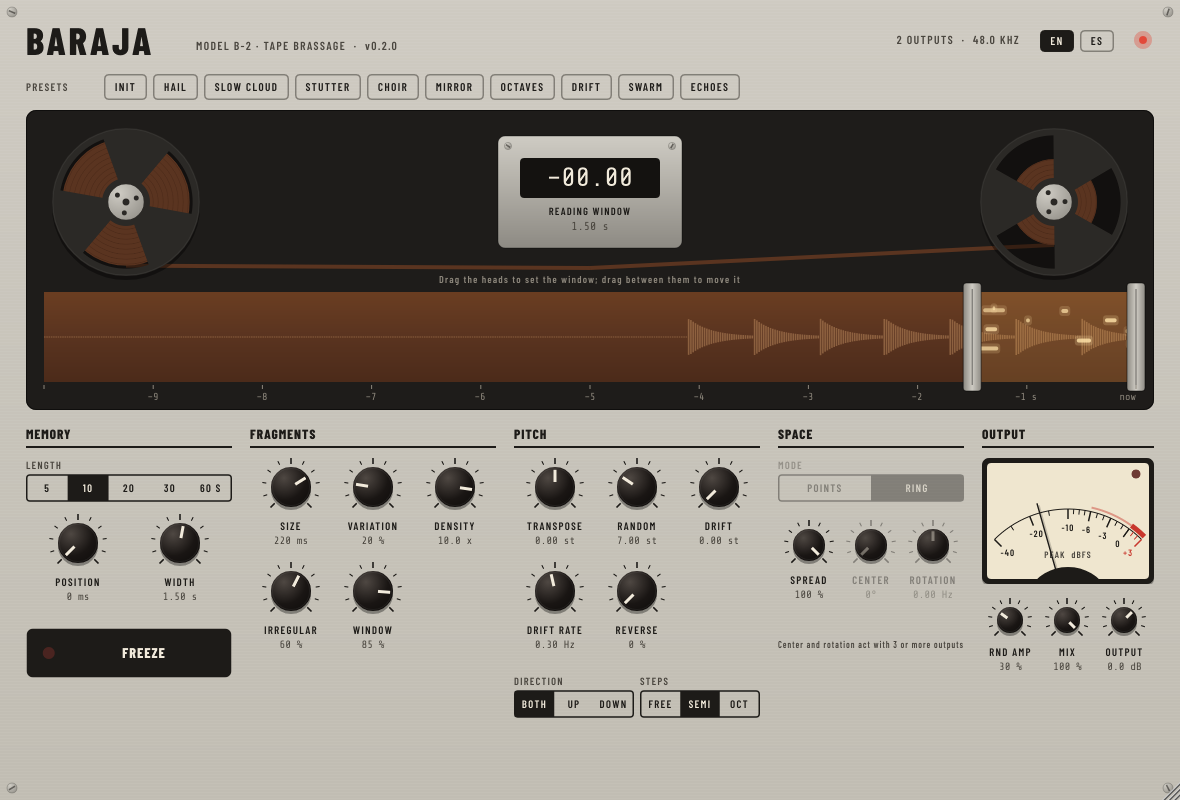
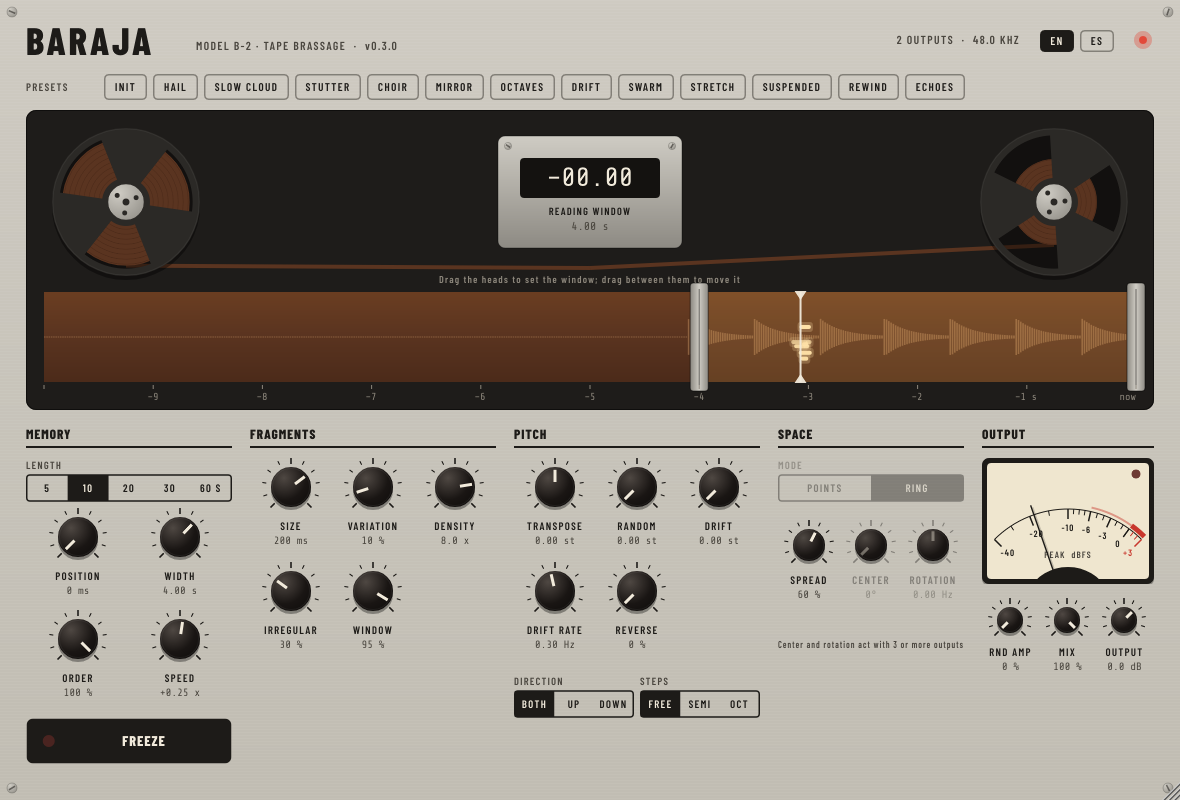
Baraja 0.3.0: híbrido entre Shuffling y Freeze
- Order: de fragmentos al azar (shuffling) a fragmentos que siguen un
  cabezal de lectura (freeze), con todos los valores intermedios.
- Speed: velocidad y sentido del cabezal, independientes de la altura
  (estiramiento temporal, cabezal detenido, lectura hacia atrás).
- El cabezal se dibuja sobre la cinta.
- Ajustes nuevos: Stretch, Suspended, Rewind.
- Pruebas del motor para los modos nuevos.

Claude-Session: https://claude.ai/code/session_01Kuo6ybMgYaCG6zDbMWAD8p

diff --git a/Source/Parameters.h b/Source/Parameters.h
@@ -50,6 +50,8 @@ inline const std::vector<FloatSpec>& floatSpecs()
         { "shape",     "Window",        "Ventana",        0.0f,   100.0f,   60.0f,   "%",     0, S::linear,      false, "Fragment envelope: 0 = hard edges, 100 = bell", "Envolvente: 0 = bordes abruptos, 100 = campana" },
         { "position",  "Position",      "Posición",       0.0f,   60000.0f, 0.0f,    "ms",    0, S::skewed,      false, "How far back the reading window starts", "Desde qué punto del pasado se lee" },
         { "width",     "Width",         "Ancho",          20.0f,  60000.0f, 1500.0f, "ms",    0, S::logarithmic, false, "Length of the reading window", "Cuánto abarca la zona de lectura" },
+        { "order",     "Order",         "Orden",          0.0f,   100.0f,   0.0f,    "%",     0, S::linear,      false, "0 = fragments taken at random (shuffling), 100 = they follow the read head (freeze)", "0 = fragmentos al azar (shuffling), 100 = siguen al cabezal de lectura (freeze)" },
+        { "speed",     "Speed",         "Velocidad",      -4.0f,  4.0f,     1.0f,    "x",     2, S::linear,      true,  "Read head speed and direction, independent of pitch. 0 = stopped", "Velocidad y sentido del cabezal, independiente de la altura. 0 = detenido" },
         { "pitch",     "Transpose",     "Transposición",  -24.0f, 24.0f,    0.0f,    "st",    2, S::linear,      true,  "Every fragment is transposed by the same amount", "Todos los fragmentos se transponen igual" },
         { "pitchVar",  "Random",        "Aleatoria",      0.0f,   24.0f,    0.0f,    "st",    2, S::linear,      false, "Each fragment also gets a random pitch in this range", "Cada fragmento recibe además una altura al azar" },
         { "drift",     "Drift",         "Deriva",         0.0f,   24.0f,    0.0f,    "st",    2, S::linear,      false, "The transposition wanders on its own", "La transposición vaga sola en el tiempo" },
@@ -115,15 +117,16 @@ inline juce::NormalisableRange<float> rangeFor (const FloatSpec& s)
 inline juce::AudioProcessorValueTreeState::ParameterLayout createLayout()
 {
     juce::AudioProcessorValueTreeState::ParameterLayout layout;
-    const int v1 = 1, v2 = 2;   // parameter versions: 2 = added in Baraja 0.2
+    const int v1 = 1, v2 = 2, v3 = 3;   // parameter versions: 2 = added in Baraja 0.2, 3 = added in 0.3
 
     for (const auto& s : floatSpecs())
     {
         const juce::String id (s.id);
         const bool isNew = id == "position" || id == "width" || id == "center" || id == "rotation";
+        const bool isNewer = id == "order" || id == "speed";
         const auto sp = s;
         layout.add (std::make_unique<juce::AudioParameterFloat> (
-            juce::ParameterID { s.id, isNew ? v2 : v1 }, u8 (s.en), rangeFor (s), s.def,
+            juce::ParameterID { s.id, isNewer ? v3 : (isNew ? v2 : v1) }, u8 (s.en), rangeFor (s), s.def,
             juce::AudioParameterFloatAttributes()
                 .withLabel (s.unit)
                 .withStringFromValueFunction ([sp] (float v, int) { return formatValue (sp, v); })
@@ -163,6 +166,9 @@ inline const std::vector<Preset>& presets()
         { "Octaves",    "Octavas",    { {"size",300}, {"sizeVar",40}, {"density",5}, {"jitter",65}, {"shape",90}, {"width",2500}, {"pitchVar",13}, {"quant",2}, {"reverse",15}, {"spread",100}, {"ampVar",25} } },
         { "Drift",      "Deriva",     { {"size",260}, {"sizeVar",35}, {"density",6}, {"jitter",55}, {"shape",90}, {"width",2200}, {"pitchVar",0.4f}, {"drift",7}, {"driftRate",0.15f}, {"reverse",20}, {"spread",90}, {"ampVar",20} } },
         { "Swarm",      "Enjambre",   { {"size",60}, {"sizeVar",60}, {"density",12}, {"jitter",95}, {"shape",50}, {"width",1000}, {"pitch",5}, {"pitchVar",12}, {"vdir",1}, {"drift",3}, {"driftRate",2.5f}, {"reverse",10}, {"spread",100}, {"ampVar",50} } },
+        { "Stretch",    "Estirado",   { {"order",100}, {"speed",0.25f}, {"size",200}, {"sizeVar",10}, {"density",8}, {"jitter",30}, {"shape",95}, {"width",4000}, {"spread",60} } },
+        { "Suspended",  "Suspendido", { {"order",95}, {"speed",0}, {"size",300}, {"sizeVar",20}, {"density",10}, {"jitter",50}, {"shape",100}, {"position",200}, {"width",600}, {"spread",80}, {"ampVar",10} } },
+        { "Rewind",     "Retroceso",  { {"order",80}, {"speed",-1}, {"size",150}, {"density",5}, {"jitter",40}, {"shape",80}, {"width",6000}, {"spread",70} } },
         { "Echoes",     "Ecos",       { {"size",350}, {"sizeVar",20}, {"density",2.5f}, {"jitter",40}, {"shape",80}, {"position",4000}, {"width",1500}, {"spread",100}, {"rotation",0.05f} } },
     };
     return list;

diff --git a/Source/BarajaEngine.h b/Source/BarajaEngine.h
@@ -26,6 +26,8 @@ struct Params
     float shape     = 60.0f;    // % window smoothness
     float position  = 0.0f;     // ms: how far back the newest edge of the reading window is
     float width     = 1500.0f;  // ms: length of the reading window
+    float order     = 0.0f;     // %: 0 = fragments taken at random (shuffling), 100 = they follow the read head (freeze)
+    float speed     = 1.0f;     // read head speed and direction (x), independent of pitch; 0 = stopped
     float pitch     = 0.0f;     // semitones, fixed transposition
     float pitchVar  = 0.0f;     // semitones, random variation
     int   vdir      = 0;        // 0 both ways, 1 up, 2 down
@@ -59,6 +61,7 @@ struct Telemetry
     float memoryMs = 10000.0f;
     float drift = 0.0f;
     float outPeak = 0.0f;
+    float headMs = 0.0f;
     float ringPhase = 0.0f;
     int numOutputs = 2;
 };
@@ -90,6 +93,7 @@ public:
         for (auto& g : grains) g.active = false;
         driftPhase = driftFrom = driftTo = driftNow = 0.0;
         ringPhase = 0.0;
+        headDelay = 0.0;
         teleCount = 0;
         outPeakAcc = 0.0f;
     }
@@ -127,6 +131,10 @@ public:
         float* buf = buffer.data();
         double wet[maxOutputs];
 
+        // reading window in samples, and how the head moves relative to "now" each sample
+        windowSamples (p, winNew, winWide);
+        const double headStep = p.freeze ? -(double) p.speed : 1.0 - (double) p.speed;
+
         for (int i = 0; i < n; ++i)
         {
             const float dl = inL ? inL[i] : 0.0f;
@@ -137,6 +145,11 @@ public:
                 buf[writePos] = 0.5f * (dl + dr);
                 writePos = (writePos + 1) & mask;
             }
+
+            // the read head travels through the window and wraps at its edges
+            headDelay += headStep;
+            if (headDelay > winNew + winWide || headDelay < winNew)
+                headDelay = winNew + std::fmod (std::fmod (headDelay - winNew, winWide) + winWide, winWide);
 
             nextGrain -= 1.0;
             if (nextGrain <= 0.0)
@@ -216,6 +229,7 @@ public:
         t.drift = (float) driftNow;
         t.outPeak = std::max (t.outPeak, outPeakAcc);
         t.ringPhase = (float) ringPhase;
+        t.headMs = (float) (headDelay * 1000.0 / sr);
         t.numOutputs = currentOutputs;
         outPeakAcc = 0.0f;
 
@@ -326,10 +340,11 @@ private:
         const double minD = rev ? 64.0
                           : (p.freeze ? span + 64.0 : std::max (0.0, length * (rate - 1.0)) + 64.0);
 
-        const double memMs = getMemoryMs();
-        const double posMs = std::clamp ((double) p.position, 0.0, memMs - 20.0);
-        const double widMs = std::clamp ((double) p.width, 1.0, memMs - posMs);
-        double d = minD + (posMs + rnd() * widMs) * sr / 1000.0;
+        // shuffling: anywhere in the window; freeze: centred on the read head, with a little scatter
+        const double o = std::clamp (p.order / 100.0, 0.0, 1.0);
+        const double dRandom = winNew + rnd() * winWide;
+        const double dHead = headDelay + (rev ? -0.5 : 0.5) * span + (rnd() * 2.0 - 1.0) * 0.15 * span;
+        double d = (minD + dRandom) * (1.0 - o) + dHead * o;
         const double oldest = rev ? d + span : d;
         if (oldest > maxOld) d -= oldest - maxOld;
         if (d < minD) d = minD;
@@ -347,7 +362,17 @@ private:
         place (*g, p, numOuts);
     }
 
+    void windowSamples (const Params& p, double& newest, double& wide) const noexcept
+    {
+        const double memMs = getMemoryMs();
+        const double posMs = std::clamp ((double) p.position, 0.0, memMs - 20.0);
+        const double widMs = std::clamp ((double) p.width, 1.0, memMs - posMs);
+        newest = posMs * sr / 1000.0;
+        wide = std::max (16.0, widMs * sr / 1000.0);
+    }
+
     double sr = 48000.0, memorySamples = 480000.0;
+    double headDelay = 0.0, winNew = 0.0, winWide = 48000.0;
     std::vector<float> buffer;
     int mask = 0, writePos = 0, currentOutputs = 2;
     Grain grains[maxGrains];

diff --git a/Source/PluginEditor.cpp b/Source/PluginEditor.cpp
@@ -340,6 +340,7 @@ void Transport::update (const Telemetry& t, bool peaksFresh, bool running)
     std::copy (t.grains, t.grains + t.numGrains, tele.grains);
     tele.drift = t.drift;
     tele.numOutputs = t.numOutputs;
+    tele.headMs = t.headMs;
     if (peaksFresh)
     {
         std::copy (t.peaks, t.peaks + Telemetry::numPeaks, tele.peaks);
@@ -485,6 +486,19 @@ void Transport::paint (juce::Graphics& g)
         g.fillRoundedRectangle (rect.expanded (2.0f, 3.0f), 3.0f);
         g.setColour (c.withAlpha (alpha));
         g.fillRoundedRectangle (rect, 2.0f);
+    }
+
+    // the read head: fragments gather around it as Order rises
+    const float order = processor.apvts.getRawParameterValue ("order")->load() / 100.0f;
+    if (order > 0.005f)
+    {
+        const float hx = xForMs (tele.headMs);
+        g.setColour (colours::cream.withAlpha (0.25f + 0.7f * order));
+        g.fillRect (hx - 1.0f, s.getY(), 2.0f, s.getHeight());
+        juce::Path tri;
+        tri.addTriangle (hx - 6.0f, s.getY() - 1.0f, hx + 6.0f, s.getY() - 1.0f, hx, s.getY() + 8.0f);
+        tri.addTriangle (hx - 6.0f, s.getBottom() + 1.0f, hx + 6.0f, s.getBottom() + 1.0f, hx, s.getBottom() - 8.0f);
+        g.fillPath (tri);
     }
 
     // the two heads that hold the window: drag them
@@ -666,7 +680,7 @@ Content::Content (BarajaProcessor& p)
 
     auto onUser = [this] { shownProgram = -1; highlightPreset(); };
     const std::vector<std::pair<const char*, float>> knobIds {
-        { "position", 58 }, { "width", 58 },
+        { "position", 58 }, { "width", 58 }, { "order", 58 }, { "speed", 58 },
         { "size", 58 }, { "sizeVar", 58 }, { "density", 58 }, { "jitter", 58 }, { "shape", 58 },
         { "pitch", 58 }, { "pitchVar", 58 }, { "drift", 58 }, { "driftRate", 58 }, { "reverse", 58 },
         { "spread", 50 }, { "center", 50 }, { "rotation", 50 },
@@ -712,7 +726,7 @@ Content::~Content()
 
 Knob* Content::knob (const juce::String& id) const
 {
-    const auto& ids = std::vector<const char*> { "position", "width", "size", "sizeVar", "density", "jitter", "shape",
+    const auto& ids = std::vector<const char*> { "position", "width", "order", "speed", "size", "sizeVar", "density", "jitter", "shape",
                                                  "pitch", "pitchVar", "drift", "driftRate", "reverse",
                                                  "spread", "center", "rotation", "ampVar", "mix", "gain" };
     for (size_t i = 0; i < ids.size(); ++i) if (id == ids[i]) return knobs[(int) i];
@@ -851,9 +865,11 @@ void Content::resized()
     {
         const auto a = sectionArea (0);
         memorySwitch->setBounds (a.getX(), a.getY() + 34, a.getWidth(), 44);
-        place ("position", a.getX() + 52, a.getY() + 90);
-        place ("width", a.getX() + 154, a.getY() + 90);
-        freezeButton.setBounds (a.getX(), a.getY() + 204, a.getWidth(), 50);
+        place ("position", a.getX() + 52, a.getY() + 84);
+        place ("width", a.getX() + 154, a.getY() + 84);
+        place ("order", a.getX() + 52, a.getY() + 186);
+        place ("speed", a.getX() + 154, a.getY() + 186);
+        freezeButton.setBounds (a.getX(), a.getY() + 294, a.getWidth(), 46);
     }
     // fragments and pitch: 3 × 2 grids
     for (int col : { 1, 2 })

diff --git a/Source/PluginProcessor.cpp b/Source/PluginProcessor.cpp
@@ -22,7 +22,7 @@ BarajaProcessor::BarajaProcessor()
       apvts (*this, nullptr, "BARAJA", baraja::createLayout())
 {
     auto r = [this] (const char* id) { return apvts.getRawParameterValue (id); };
-    refs = { r ("size"), r ("sizeVar"), r ("density"), r ("jitter"), r ("shape"), r ("position"), r ("width"), r ("pitch"),
+    refs = { r ("size"), r ("sizeVar"), r ("density"), r ("jitter"), r ("shape"), r ("position"), r ("width"), r ("order"), r ("speed"), r ("pitch"),
              r ("pitchVar"), r ("drift"), r ("driftRate"), r ("reverse"), r ("spread"), r ("center"), r ("rotation"),
              r ("ampVar"), r ("mix"), r ("gain"), r ("vdir"), r ("quant"), r ("spaceMode"), r ("freeze"), r ("memory") };
 
@@ -88,7 +88,8 @@ baraja::Params BarajaProcessor::readParams() const noexcept
     baraja::Params p;
     p.size = refs.size->load();           p.sizeVar = refs.sizeVar->load();     p.density = refs.density->load();
     p.jitter = refs.jitter->load();       p.shape = refs.shape->load();         p.position = refs.position->load();
-    p.width = refs.width->load();         p.pitch = refs.pitch->load();         p.pitchVar = refs.pitchVar->load();
+    p.width = refs.width->load();         p.order = refs.order->load();         p.speed = refs.speed->load();
+            p.pitch = refs.pitch->load();         p.pitchVar = refs.pitchVar->load();
     p.drift = refs.drift->load();         p.driftRate = refs.driftRate->load(); p.reverse = refs.reverse->load();
     p.spread = refs.spread->load();       p.center = refs.center->load();       p.rotation = refs.rotation->load();
     p.ampVar = refs.ampVar->load();       p.mix = refs.mix->load();             p.gain = refs.gain->load();
@@ -143,6 +144,7 @@ bool BarajaProcessor::readTelemetry (baraja::Telemetry& dest)
     dest.drift = telemetry.drift;
     dest.outPeak = telemetry.outPeak;
     dest.ringPhase = telemetry.ringPhase;
+    dest.headMs = telemetry.headMs;
     dest.numOutputs = telemetry.numOutputs;
     telemetry.outPeak = 0.0f;
     if (fresh)

diff --git a/tests/EngineTest.cpp b/tests/EngineTest.cpp
@@ -17,6 +17,10 @@ int main()
     { baraja::Params p; p.size = 5; p.density = 16; p.jitter = 100; p.shape = 0; cases.push_back ({ "tiny fragments", p }); }
     { baraja::Params p; p.position = 3000; p.width = 500; p.spaceMode = 0; p.spread = 100; p.density = 12; cases.push_back ({ "window in the past, points", p }); }
     { baraja::Params p; p.position = 1000; p.width = 2000; p.spaceMode = 1; p.spread = 40; p.rotation = 0.5f; p.center = 90; cases.push_back ({ "ring, rotating", p }); }
+    { baraja::Params p; p.order = 100; p.speed = 0.25f; p.size = 200; p.density = 8; p.shape = 95; p.width = 4000; cases.push_back ({ "freeze: slow head", p }); }
+    { baraja::Params p; p.order = 95; p.speed = 0; p.width = 600; p.position = 200; cases.push_back ({ "freeze: head stopped", p }); }
+    { baraja::Params p; p.order = 100; p.speed = -4; p.pitch = 12; p.width = 3000; cases.push_back ({ "freeze: fast backwards", p }); }
+    { baraja::Params p; p.order = 50; p.speed = 4; p.pitch = -12; p.reverse = 50; p.width = 3000; cases.push_back ({ "half order, fast forward", p }); }
 
     int failures = 0;
     for (double memory : { 5.0, 60.0 })

diff --git a/Source/PluginProcessor.h b/Source/PluginProcessor.h
@@ -70,7 +70,7 @@ private:
 
     struct Refs
     {
-        std::atomic<float> *size, *sizeVar, *density, *jitter, *shape, *position, *width, *pitch, *pitchVar,
+        std::atomic<float> *size, *sizeVar, *density, *jitter, *shape, *position, *width, *order, *speed, *pitch, *pitchVar,
                            *drift, *driftRate, *reverse, *spread, *center, *rotation, *ampVar, *mix, *gain,
                            *vdir, *quant, *spaceMode, *freeze, *memory;
     } refs {};

diff --git a/README.md b/README.md
@@ -13,6 +13,16 @@ Baraja guarda los últimos segundos (de 5 a 60) de lo que entra en una memoria y
 
 Las versiones de prueba, que todavía no se publicaron como Release, están en la pestaña **[Actions](../../actions)**: abrí la última compilación exitosa y bajá el paquete desde *Artifacts* (hace falta una cuenta de GitHub).
 
+## Novedades de la 0.3: entre Shuffling y Freeze
+
+- **Order**: en 0, los fragmentos se toman al azar dentro de la ventana, como un *shuffling*. En 100, siguen a un **cabezal de lectura** que recorre la ventana, como un *freeze*. Los valores intermedios mezclan ambos comportamientos.
+- **Speed**: velocidad y sentido del cabezal, independientes de la altura. 1 = velocidad original; 0,5 = la mitad (estira el material sin transponerlo); 0 = detenido; valores negativos = hacia atrás.
+- El cabezal se ve sobre la cinta y da la vuelta al llegar a los bordes de la ventana.
+- Ajustes nuevos: *Stretch* (Estirado), *Suspended* (Suspendido) y *Rewind* (Retroceso).
+- Las sesiones de la 0.2 suenan igual que antes, porque Order arranca en 0.
+
+Con la memoria sin congelar, Order 100 y Speed 1 el cabezal acompaña al sonido con un retardo fijo; si además se cambia la transposición, Baraja funciona como un transpositor granular.
+
 ## Novedades de la 0.2
 
 - **Skin Tape**: carretes que giran mientras se graba y se detienen al congelar, la memoria como una cinta con su forma de onda, y un medidor de picos con escala en dBFS.
@@ -29,6 +39,8 @@ Las versiones de prueba, que todavía no se publicaron como Release, están en l
 | Memory | Length | Duración de la memoria: 5 a 60 s. Cambiarla vacía la memoria. |
 | | Position | Desde qué punto del pasado empieza la ventana de lectura (0 = ahora). |
 | | Width | Cuánto abarca la ventana de lectura. |
+| | Order | 0 = fragmentos al azar en la ventana (shuffling); 100 = siguen al cabezal de lectura (freeze). |
+| | Speed | Velocidad y sentido del cabezal (−4 a +4), independientes de la altura. 0 = detenido. |
 | | Freeze | Deja de grabar y sigue barajando lo guardado. |
 | Fragments | Size | Duración media de cada fragmento (5 ms a 1 s). |
 | | Variation | Cuánto cambia la duración de un fragmento a otro. |
